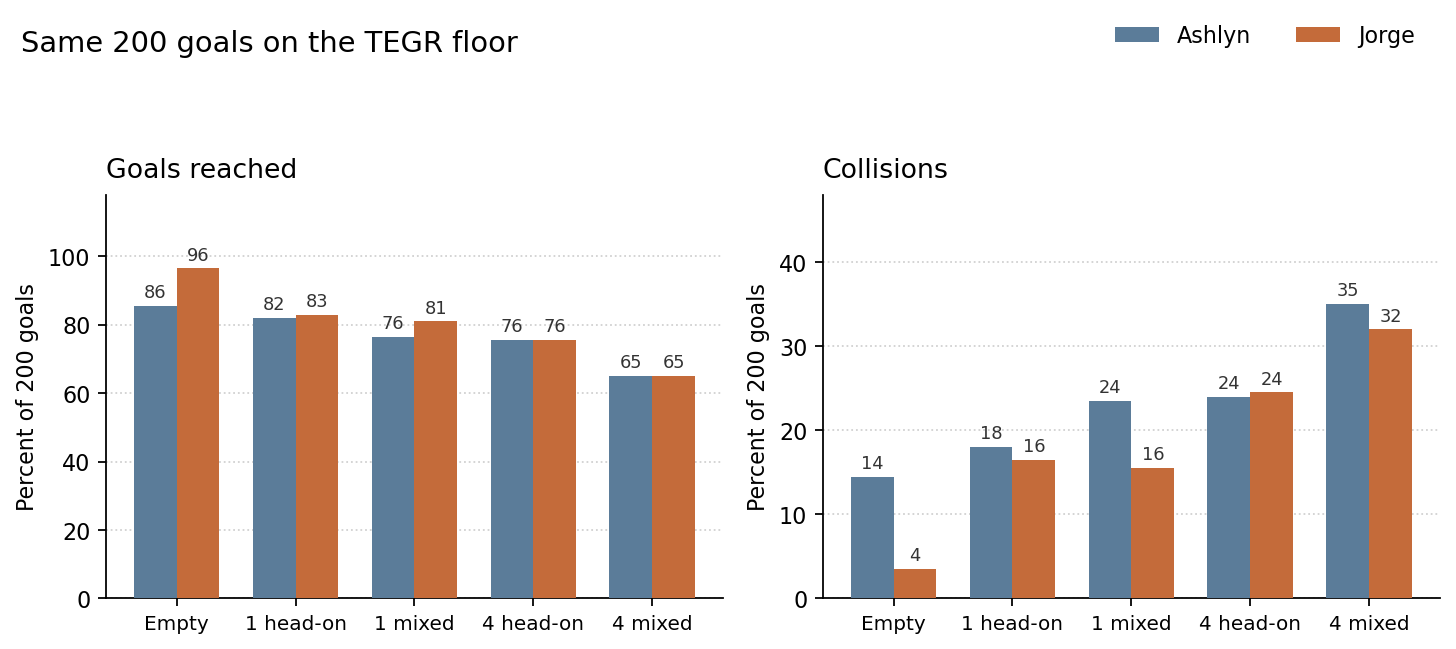
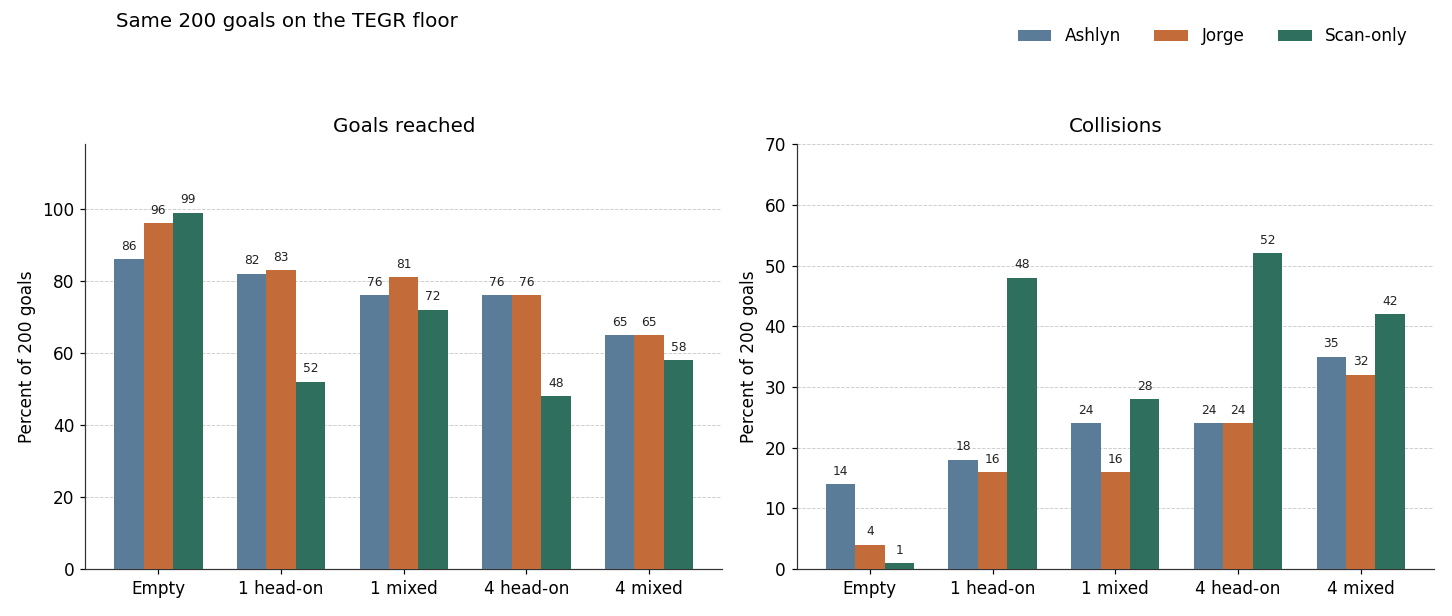
Add the scan-only student to the TEGR comparison chart.
Ashlyn and Jorge stay on the passing rule. The third series is the laser-only run scored with the rule off.

diff --git a/README.md b/README.md
@@ -10,18 +10,23 @@ The driver is two pieces. A passing rule picks a lane around a person. A small n
 the LiDAR scan and that lane into a speed command. The current network is `tegr_dagger_dh_s0`.
 Its weights are not in git.
 
-## Jorge and Ashlyn
+## Jorge, Ashlyn, and scan-only
 
-Same 200 goals on the TEGR floor, 12 Nov. Subgoal 1.5 m ahead, passing rule on, side held
-for the whole pass. Ashlyn's model is `tegr_ppo_la15_s0`. Jorge's is `tegr_dagger_dh_s0`.
+Same 200 goals on the TEGR floor, 12 Nov. Subgoal 1.5 m ahead. Ashlyn's model is
+`tegr_ppo_la15_s0` and Jorge's is `tegr_dagger_dh_s0`. Both use the passing rule, with the
+side held for the whole pass. Scan-only is `tegr_dagger_blind_s0`: the same kind of driver,
+trained to pass from the laser and a center subgoal, and scored with the rule turned off.
 
-![Jorge and Ashlyn on the same 200 goals](docs/jorge_ashlyn.png)
+![Jorge, Ashlyn, and the scan-only student on the same 200 goals](docs/jorge_ashlyn.png)
 
-Jorge is ahead on an empty corridor and crashes less when one person mixes yielding and
-crossing. One person walking straight at the robot, and a crowd of four, are ties. Ashlyn
-finishes the successful trips about 4 seconds faster. With the rule turned off both reach
-the goal about 41% of the time. The scripted lane follower, which reads the map, still leads
-the head-on case at 86.5%. Full times are in `WORKLOG.md`. Older models are in `docs/MODELS.md`.
+Jorge is ahead of Ashlyn on an empty corridor and crashes less when one person mixes
+yielding and crossing. One person walking straight at the robot, and a crowd of four, are
+ties between those two. Ashlyn finishes the successful trips about 4 seconds faster.
+Scan-only reaches 99% of empty-hall goals. With one person walking straight at the robot it
+reaches 52%, about 10 points above either network with the rule turned off (about 41%), and
+short of Jorge's 83% with the rule on. The scripted lane follower, which reads the map,
+still leads that case at 86.5%. Full times are in `WORKLOG.md`. Older models are in
+`docs/MODELS.md`.
 
 ## Where things are
 
